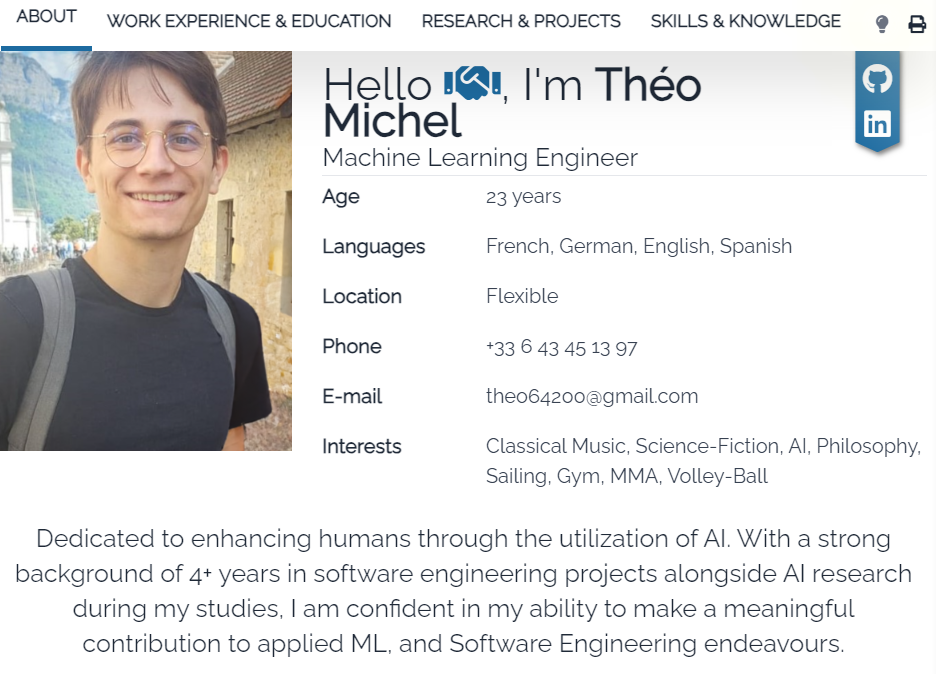
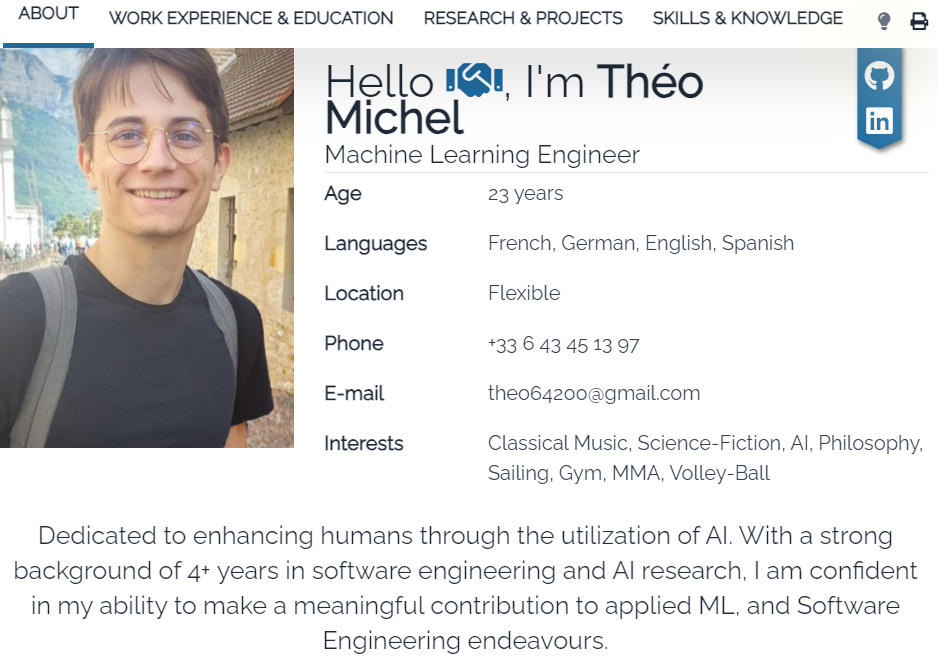
Deploying to gh-pages from @ theo-michel/resume@504ac8822af21af2476e0980018752f28e16d736 🚀

diff --git a/data.html b/data.html
@@ -4,9 +4,9 @@
 <head>
     <meta charset="UTF-8" />
     <meta name="viewport" content="width=device-width, initial-scale=1.0" />
-    <meta name="description" content="Dedicated to enhancing humans through the utilization of AI. With a strong background of 4+ years in software engineering projects alongside AI research during my studies, I am confident in my ability to make a meaningful contribution to applied ML, and Software Engineering endeavours.">
+    <meta name="description" content="Dedicated to enhancing humans through the utilization of AI. With a strong background of 4+ years in software engineering and AI research, I am confident in my ability to make a meaningful contribution to applied ML, and Software Engineering endeavours.">
     <meta property="og:title" content="Théo Michel - Resume" />
-    <meta property="og:description" content="Dedicated to enhancing humans through the utilization of AI. With a strong background of 4+ years in software engineering projects alongside AI research during my studies, I am confident in my ability to make a meaningful contribution to applied ML, and Software Engineering endeavours." />
+    <meta property="og:description" content="Dedicated to enhancing humans through the utilization of AI. With a strong background of 4+ years in software engineering and AI research, I am confident in my ability to make a meaningful contribution to applied ML, and Software Engineering endeavours." />
     <meta property="og:image" content="og.png" />
 
     <link href="css/style.css" rel="stylesheet">
@@ -91,7 +91,7 @@
                             Théo
                                 Michel
                         </span><br><span class="text-lg">
-                            Machine Learning Engineer
+                            Software Engineer, Machine Learning Specialist
                         </span>
                     </h1>
                     <div
@@ -110,7 +110,7 @@
                             Théo
                                 Michel
                         </span><br><span class="text-xl">
-                            Machine Learning Engineer
+                            Software Engineer, Machine Learning Specialist
                         </span>
                     </h1>
                     <hr class="mb-1 hidden md:block print:block">
@@ -191,7 +191,7 @@
 
                 <div
                     class="description-block-wrapper text-black-50 col-span-full p-4 text-center text-xl print:text-md print:px-16">
-                    Dedicated to enhancing humans through the utilization of AI. With a strong background of 4+ years in software engineering projects alongside AI research during my studies, I am confident in my ability to make a meaningful contribution to applied ML, and Software Engineering endeavours.
+                    Dedicated to enhancing humans through the utilization of AI. With a strong background of 4+ years in software engineering and AI research, I am confident in my ability to make a meaningful contribution to applied ML, and Software Engineering endeavours.
                 </div>
             </header>
         </div>

diff --git a/index.html b/index.html
@@ -4,9 +4,9 @@
 <head>
     <meta charset="UTF-8" />
     <meta name="viewport" content="width=device-width, initial-scale=1.0" />
-    <meta name="description" content="Dedicated to enhancing humans through the utilization of AI. With a strong background of 4+ years in software engineering projects alongside AI research during my studies, I am confident in my ability to make a meaningful contribution to applied ML, and Software Engineering endeavours.">
+    <meta name="description" content="Dedicated to enhancing humans through the utilization of AI. With a strong background of 4+ years in software engineering and AI research, I am confident in my ability to make a meaningful contribution to applied ML, and Software Engineering endeavours.">
     <meta property="og:title" content="Théo Michel - Resume" />
-    <meta property="og:description" content="Dedicated to enhancing humans through the utilization of AI. With a strong background of 4+ years in software engineering projects alongside AI research during my studies, I am confident in my ability to make a meaningful contribution to applied ML, and Software Engineering endeavours." />
+    <meta property="og:description" content="Dedicated to enhancing humans through the utilization of AI. With a strong background of 4+ years in software engineering and AI research, I am confident in my ability to make a meaningful contribution to applied ML, and Software Engineering endeavours." />
     <meta property="og:image" content="og.png" />
 
     <link href="css/style.css" rel="stylesheet">
@@ -91,7 +91,7 @@
                             Théo
                                 Michel
                         </span><br><span class="text-lg">
-                            Machine Learning Engineer
+                            Software Engineer, Machine Learning Specialist
                         </span>
                     </h1>
                     <div
@@ -110,7 +110,7 @@
                             Théo
                                 Michel
                         </span><br><span class="text-xl">
-                            Machine Learning Engineer
+                            Software Engineer, Machine Learning Specialist
                         </span>
                     </h1>
                     <hr class="mb-1 hidden md:block print:block">
@@ -191,7 +191,7 @@
 
                 <div
                     class="description-block-wrapper text-black-50 col-span-full p-4 text-center text-xl print:text-md print:px-16">
-                    Dedicated to enhancing humans through the utilization of AI. With a strong background of 4+ years in software engineering projects alongside AI research during my studies, I am confident in my ability to make a meaningful contribution to applied ML, and Software Engineering endeavours.
+                    Dedicated to enhancing humans through the utilization of AI. With a strong background of 4+ years in software engineering and AI research, I am confident in my ability to make a meaningful contribution to applied ML, and Software Engineering endeavours.
                 </div>
             </header>
         </div>

diff --git a/software.html b/software.html
@@ -4,9 +4,9 @@
 <head>
     <meta charset="UTF-8" />
     <meta name="viewport" content="width=device-width, initial-scale=1.0" />
-    <meta name="description" content="Dedicated to enhancing humans through the utilization of AI. With a strong background of 4+ years in software engineering projects alongside AI research during my studies, I am confident in my ability to make a meaningful contribution to applied ML, and Software Engineering endeavours.">
+    <meta name="description" content="Dedicated to enhancing humans through the utilization of AI. With a strong background of 4+ years in software engineering and AI research, I am confident in my ability to make a meaningful contribution to applied ML, and Software Engineering endeavours.">
     <meta property="og:title" content="Théo Michel - Resume" />
-    <meta property="og:description" content="Dedicated to enhancing humans through the utilization of AI. With a strong background of 4+ years in software engineering projects alongside AI research during my studies, I am confident in my ability to make a meaningful contribution to applied ML, and Software Engineering endeavours." />
+    <meta property="og:description" content="Dedicated to enhancing humans through the utilization of AI. With a strong background of 4+ years in software engineering and AI research, I am confident in my ability to make a meaningful contribution to applied ML, and Software Engineering endeavours." />
     <meta property="og:image" content="og.png" />
 
     <link href="css/style.css" rel="stylesheet">
@@ -91,7 +91,7 @@
                             Théo
                                 Michel
                         </span><br><span class="text-lg">
-                            Machine Learning Engineer
+                            Software Engineer, Machine Learning Specialist
                         </span>
                     </h1>
                     <div
@@ -110,7 +110,7 @@
                             Théo
                                 Michel
                         </span><br><span class="text-xl">
-                            Machine Learning Engineer
+                            Software Engineer, Machine Learning Specialist
                         </span>
                     </h1>
                     <hr class="mb-1 hidden md:block print:block">
@@ -191,7 +191,7 @@
 
                 <div
                     class="description-block-wrapper text-black-50 col-span-full p-4 text-center text-xl print:text-md print:px-16">
-                    Dedicated to enhancing humans through the utilization of AI. With a strong background of 4+ years in software engineering projects alongside AI research during my studies, I am confident in my ability to make a meaningful contribution to applied ML, and Software Engineering endeavours.
+                    Dedicated to enhancing humans through the utilization of AI. With a strong background of 4+ years in software engineering and AI research, I am confident in my ability to make a meaningful contribution to applied ML, and Software Engineering endeavours.
                 </div>
             </header>
         </div>
